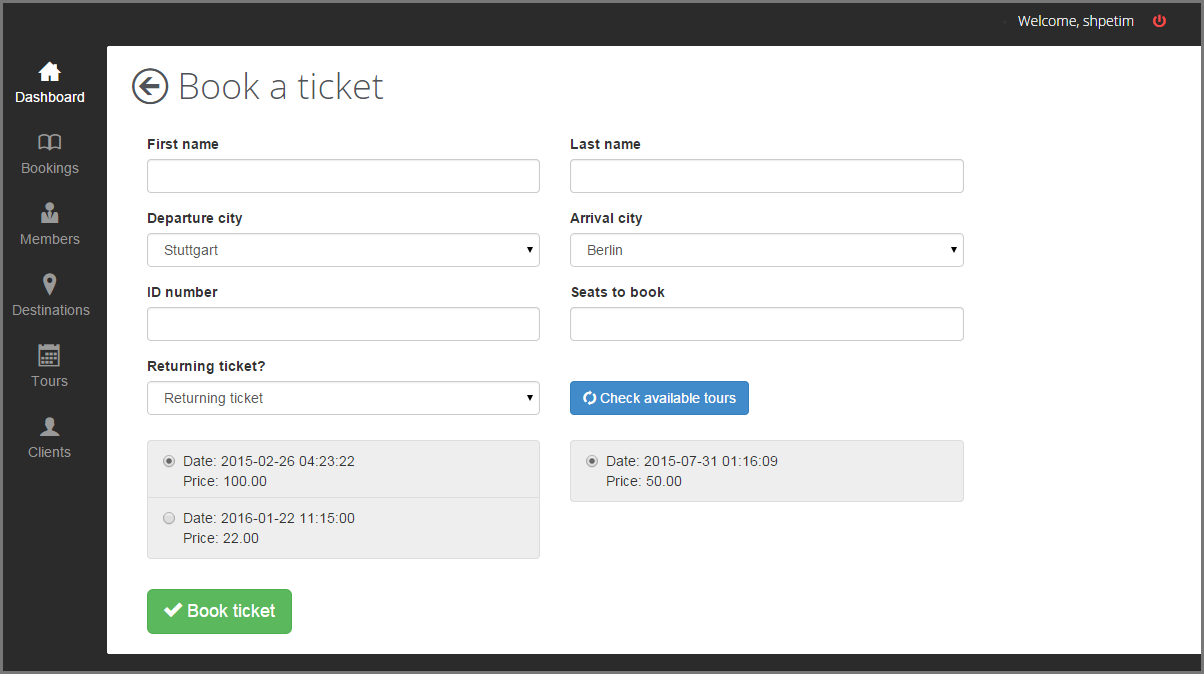
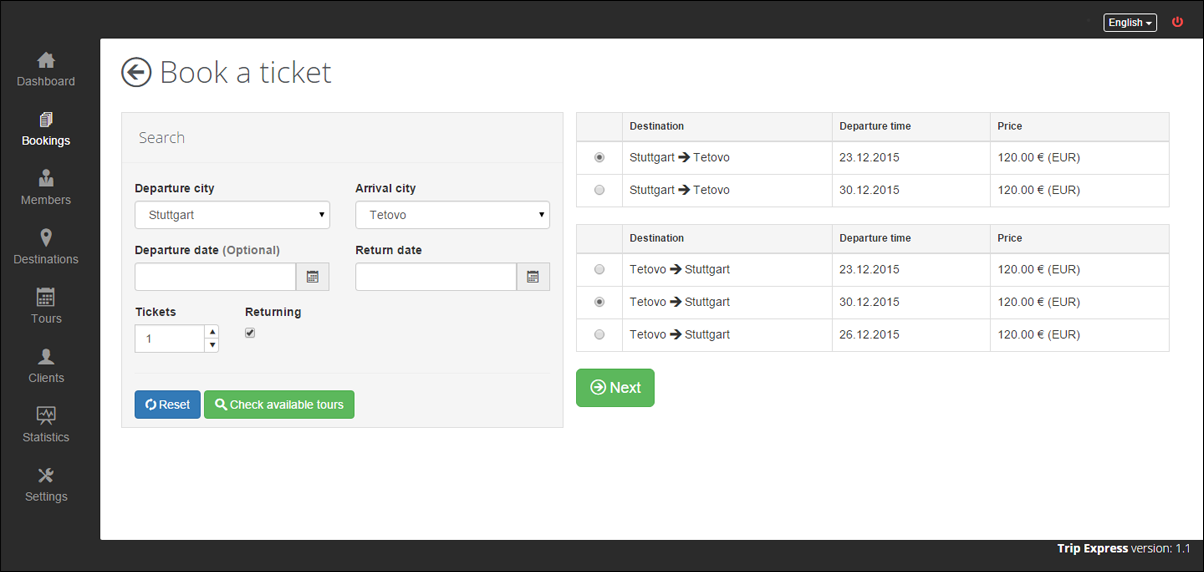
few changes in readme and updated the screenshot

diff --git a/application/config/database.php b/application/config/database.php
@@ -38,19 +38,19 @@ $active_record = TRUE;
 
 // The following values will probably need to be changed.
 
-    $db['default']['hostname'] = "localhost";
-    $db['default']['username'] = "adminB89irwB";
-    $db['default']['password'] = "V_MqVfgDRyq5";
-    $db['default']['database'] = "tripexpress";
-    $db['default']['dbdriver'] = 'mysql';
-    $db['default']['dbprefix'] = '';
-
     // $db['default']['hostname'] = "localhost";
-    // $db['default']['username'] = "root";
-    // $db['default']['password'] = "";
+    // $db['default']['username'] = "adminB89irwB";
+    // $db['default']['password'] = "V_MqVfgDRyq5";
     // $db['default']['database'] = "tripexpress";
     // $db['default']['dbdriver'] = 'mysql';
     // $db['default']['dbprefix'] = '';
+
+    $db['default']['hostname'] = "localhost";
+    $db['default']['username'] = "root";
+    $db['default']['password'] = "";
+    $db['default']['database'] = "tripexpress";
+    $db['default']['dbdriver'] = 'mysql';
+    $db['default']['dbprefix'] = '';
 
 
 

diff --git a/README.md b/README.md
@@ -1,17 +1,19 @@
 Trip express ver: 1.1
 ===========
 
-Airplane/Bus tour reservation management system.<br/><br/>
+Bus tour reservation management system.<br/><br/>
 
 <strong>Features:</strong><br/>
-1. 3 user levels with different access permissions: Administrator, Employee and Reseller<br/> 
+1. 3 user levels with different access permissions: Administrator, Employee and Reseller<br/>
 2. Manage destinations<br/>
 3. Manage tours<br/>
 4. Clients history log<br/>
-5. Make reservations<br/><br/>
+5. Search and make reservations<br/><br/>
+6. Sales and earnings stats<br/><br/>
+7. Multilanguage support<br/><br/>
 
 <strong>How to install?</strong><br/>
-1. Go to the url where you uploaded trip express app and add '/install' where you are going to put your database settings<br/> 
+1. Go to the url where you uploaded trip express app and add '/install' where you are going to put your database settings<br/>
 2. Then after you login change the default admin password and delete the install folder<br/>
 3. Go to the Destinations page and add the destinations that you are going to create tours for<br/>
 4. Go to the Tours page and create new tours<br/>
@@ -21,8 +23,11 @@ Airplane/Bus tour reservation management system.<br/><br/>
 To log in as an administrator:<br/>
 username: admin<br/>
 password: shift<br/>
-link: http://tripexpress.githost.me/demo<br/><br/>
-web site: http://tripexpress.githost.me<br/><br/>
+link: http://tripexpress-shpetim.rhcloud.com/admin<br/><br/>
 
 <strong>Screenshot:</strong><br/>
 ![ScreenShot](https://raw.github.com/toocool/tripexpress/master/screenshot.png)
+<br/><br/><br/>
+<strong>Milestone</strong><br/>
+Make the front end to show the company web site and allow clients to make reservations.<br/>
+Note: Designers are welcome to design and contribute the default trip express front end
